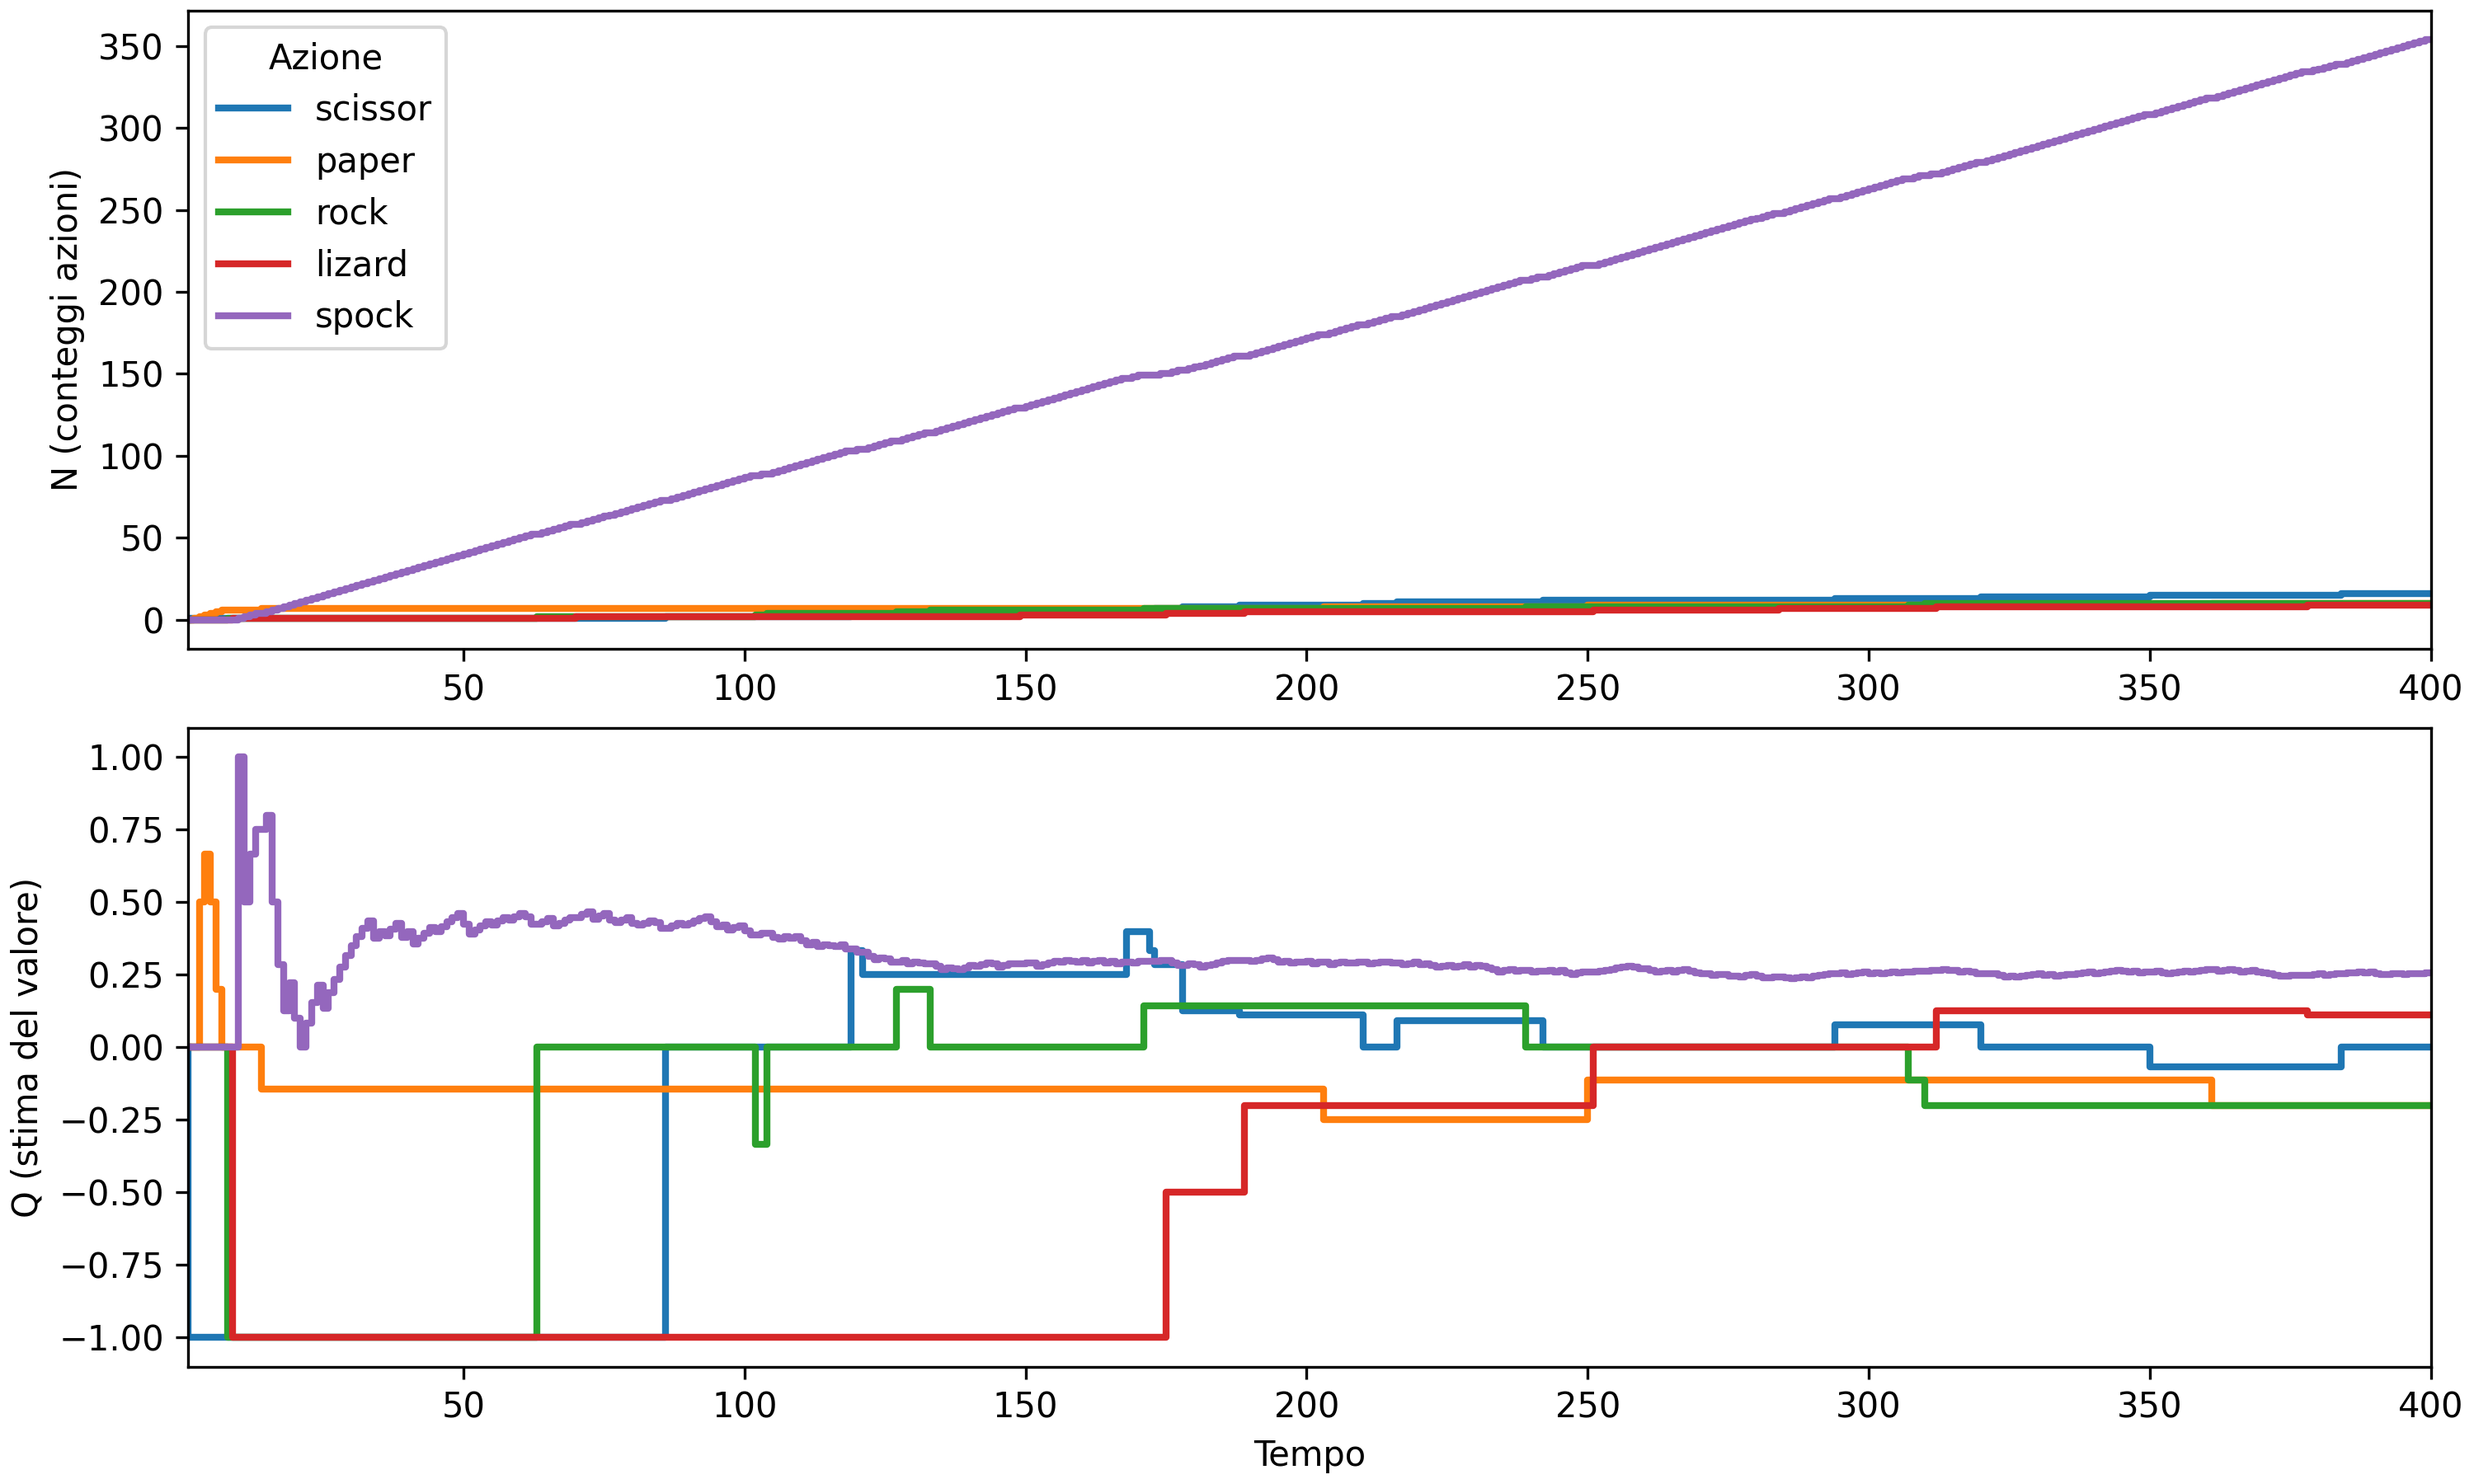
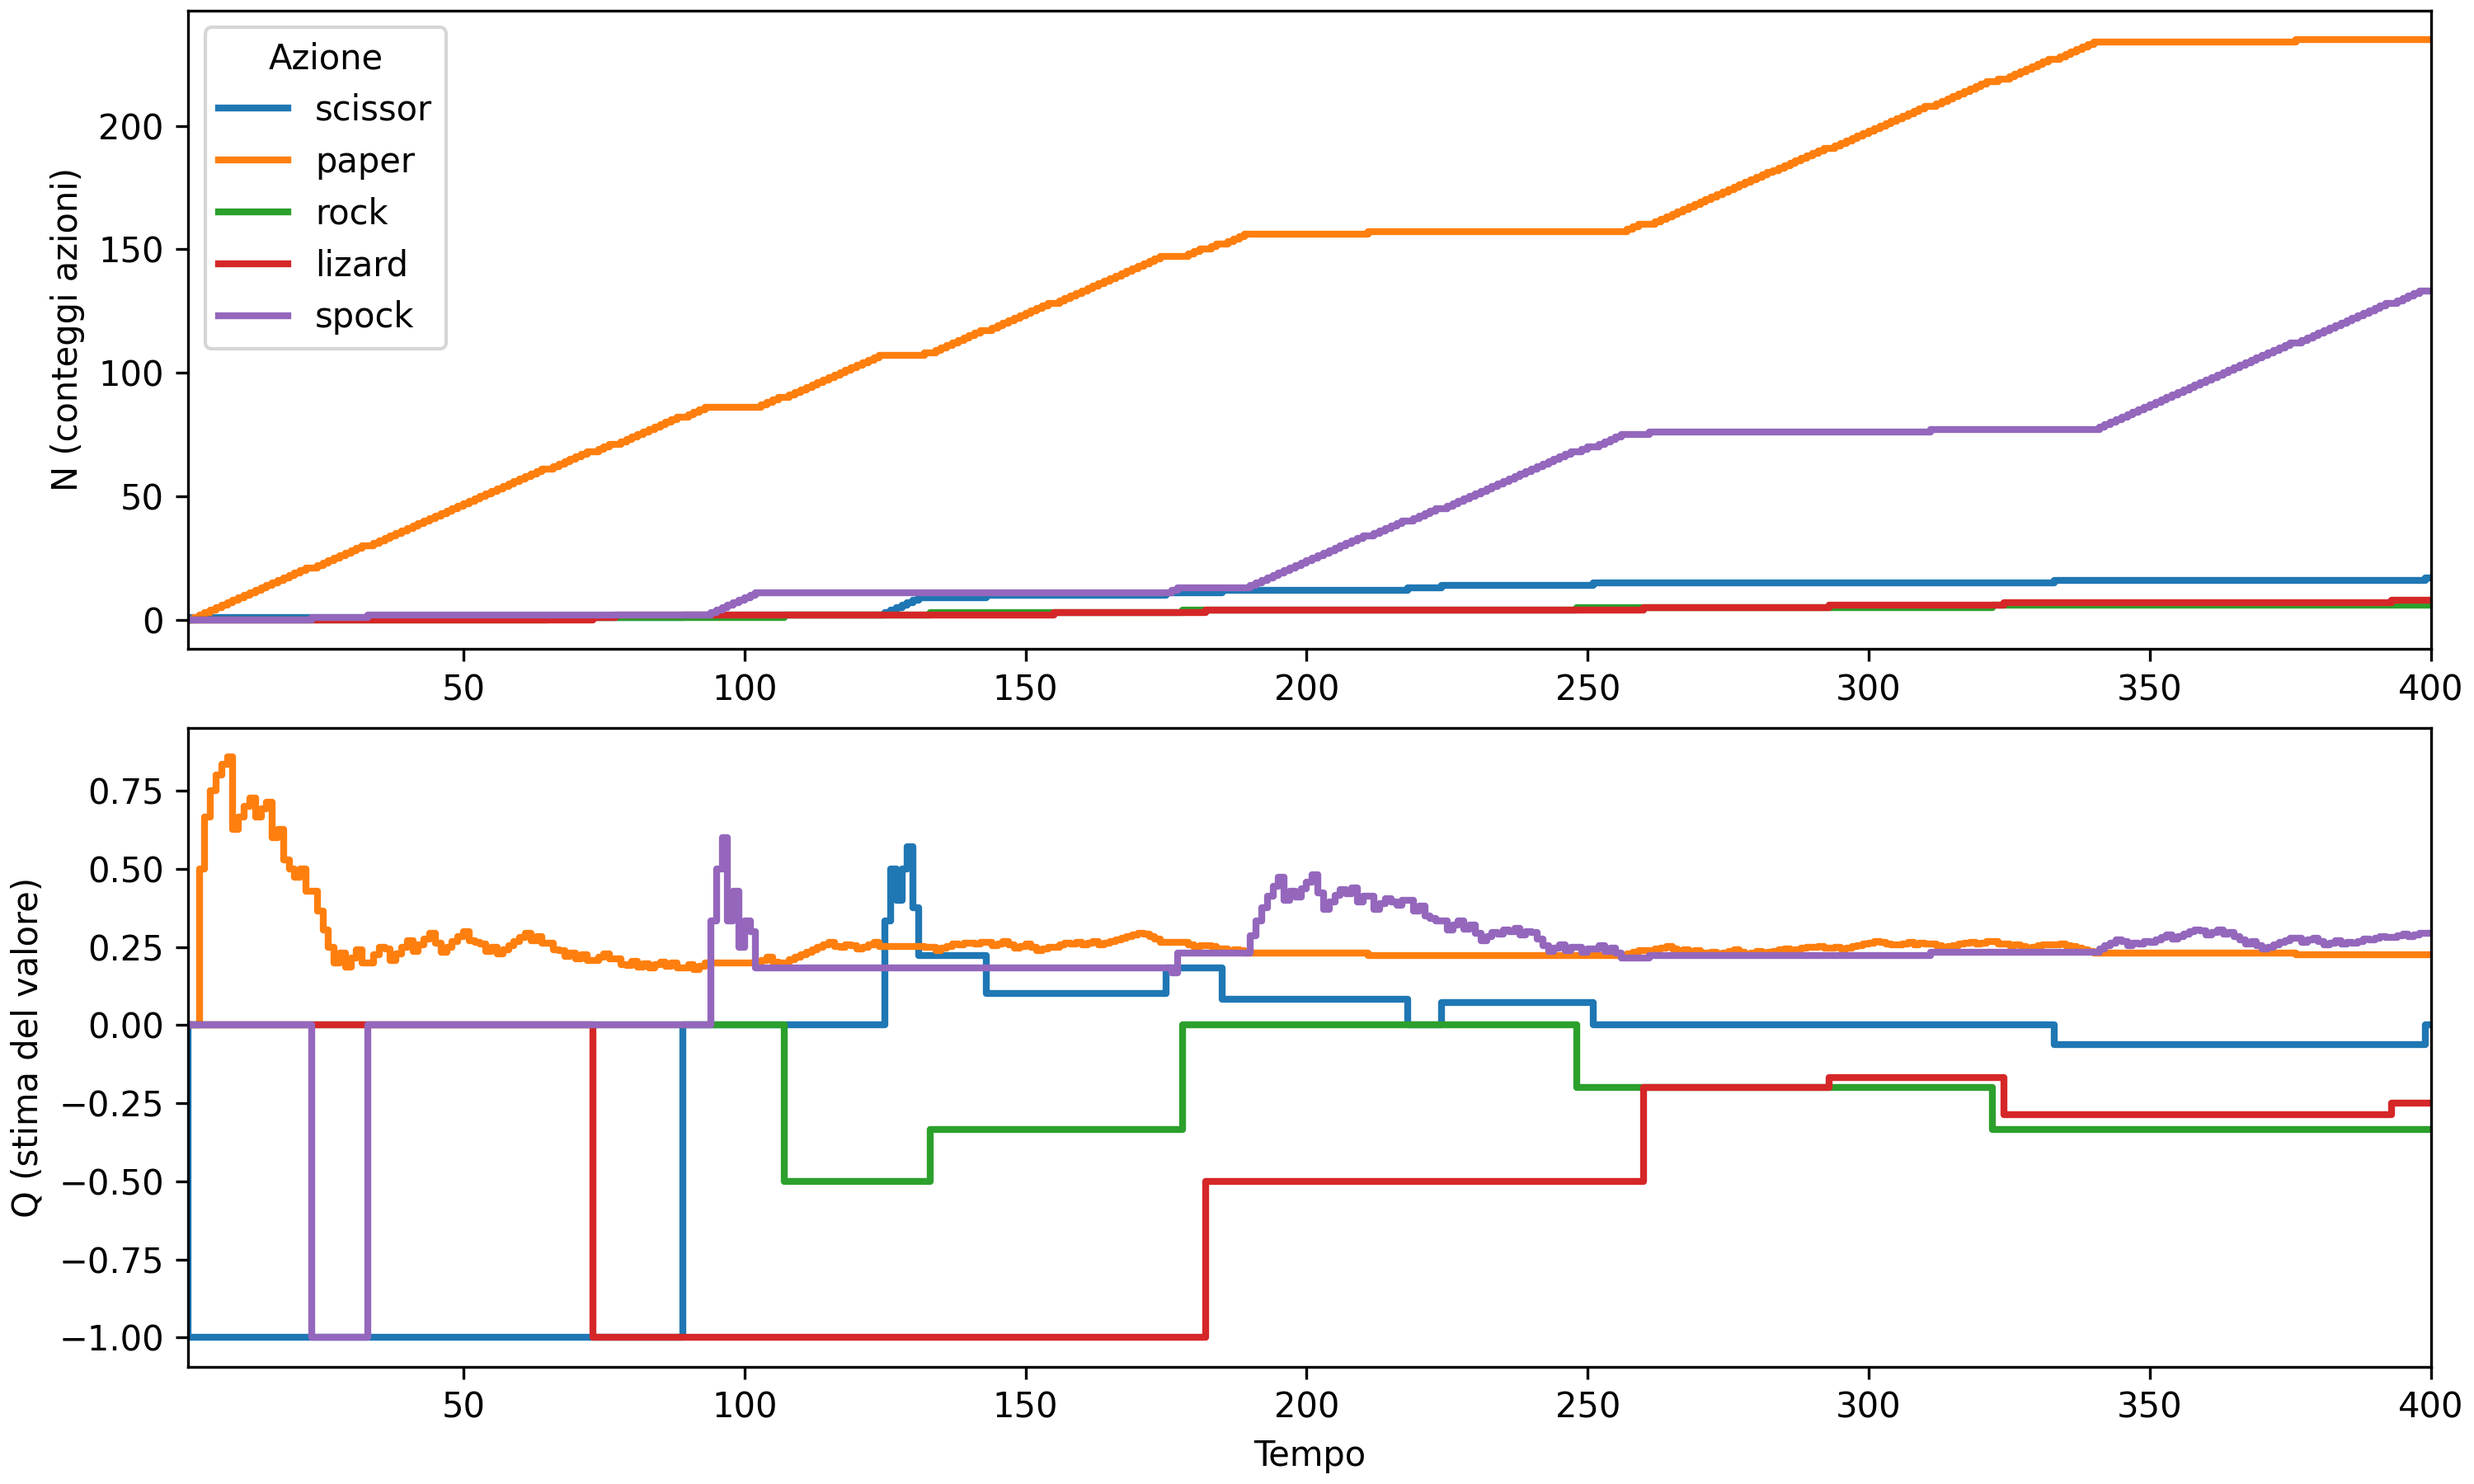
cambiata probabilità preferenza

diff --git a/homework ronzello/sasso_carta/game.py b/homework ronzello/sasso_carta/game.py
@@ -5,7 +5,8 @@ dim_A = 5
 Action = ["scissor","paper","rock","lizard","spock"]
 T = 400
 eps_agent = 0.1
-eps_player = 0.9
+eps_player = 0.8
+N=80
 def epsilon_greedy(Q):
     if np.random.random() < eps_agent:
         a = np.random.randint(0,dim_A)
@@ -23,13 +24,12 @@ def non_stationary_player(t):
     if np.random.random() < eps_player:
         a = np.random.randint(0,dim_A)
     else:
-        a = int(t/80) % 5  #ogni 80 giocate cambia la sua mossa preferita
+        a = int(t/N) % 5    #ogni 80 giocate cambia la sua mossa preferita
     return a
 
 def play_eps(sta=True):
     Q = np.zeros((dim_A,T))
     N = np.zeros((dim_A,T))
-
     alp=0.1
     for t in range(T-1):
         a_agent = epsilon_greedy(Q[:,t])
@@ -101,7 +101,6 @@ def play_ucb(sta=True):
 
     fig.savefig(f"ucb_stationary={sta}.png", dpi=300)
 
-
 def preference_update(sta = True):
     H = np.zeros(dim_A)
     historyH = np.zeros((dim_A, T))
@@ -122,10 +121,10 @@ def preference_update(sta = True):
 
         # Aggiornamento reward medio
         bR = bR + beta * (r - bR)
-
+        temp = H[a]
         # Aggiornamento preferenze
         H = H - alpha * (r - bR) * Prob
-        H[a] = H[a] + alpha * (r - bR) * (1 - Prob[a])
+        H[a] = temp + alpha * (r - bR) * (1 - Prob[a])
 
 
         historyH[:, t] = H
